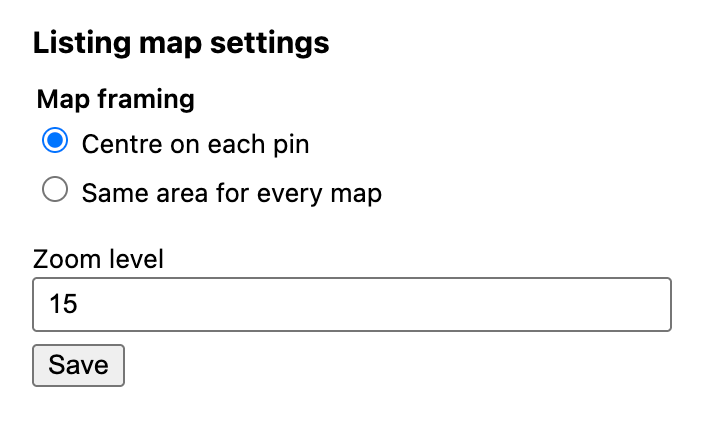
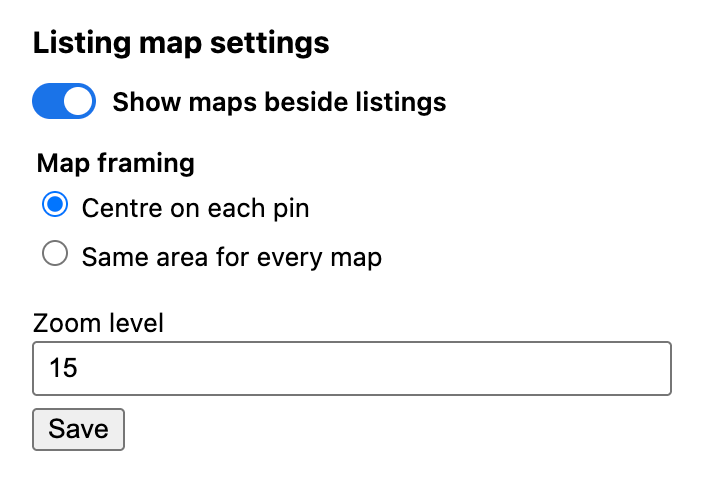
Add an on/off switch for the maps to the settings popup (#2)
The switch saves as soon as it's flipped, alongside the already-saved
framing settings, and open listing pages remove or restore their maps
straight away. Settings saved before this version have no switch and are
treated as on, so existing users keep their framing settings.

Also updates the README's Settings section and popup screenshot.

Changed region(s): [[0.0312, 0.5614, 0.9688, 0.9159], [0.0312, 0.1477, 0.6562, 0.5318], [0.0312, 0.0591, 0.4688, 0.1477]]

diff --git a/tests/settings.test.js b/tests/settings.test.js
@@ -4,6 +4,7 @@ const assert = require("node:assert/strict");
 const { loadSettingsPopup, waitForPageToSettle } = require("./load-extension-into-page");
 
 const EXPECTED_DEFAULT_SETTINGS = {
+  areMapsShowing: true,
   framingMode: "followPin",
   followPinZoomLevel: 15,
   fixedCentre: { latitude: -27.4698, longitude: 153.0251 }, // Brisbane CBD
@@ -11,6 +12,7 @@ const EXPECTED_DEFAULT_SETTINGS = {
 };
 
 const VALID_SAVED_SETTINGS = {
+  areMapsShowing: true,
   framingMode: "fixed",
   followPinZoomLevel: 14,
   fixedCentre: { latitude: -27.5, longitude: 153.1 },
@@ -23,7 +25,7 @@ async function loadSettingsAsTheExtensionWould(savedSettings) {
   return { loadedSettings: JSON.parse(JSON.stringify(loadedSettings)), popup };
 }
 
-test("a new user gets centre-on-pin at zoom 15, with Brisbane CBD at zoom 12 for a fixed centre", async () => {
+test("a new user gets maps switched on, centred on the pin at zoom 15, with Brisbane CBD at zoom 12 for a fixed centre", async () => {
   const { loadedSettings } = await loadSettingsAsTheExtensionWould({});
   assert.deepEqual(loadedSettings, EXPECTED_DEFAULT_SETTINGS);
 });
@@ -31,6 +33,12 @@ test("a new user gets centre-on-pin at zoom 15, with Brisbane CBD at zoom 12 for
 test("valid saved settings are kept", async () => {
   const { loadedSettings } = await loadSettingsAsTheExtensionWould(VALID_SAVED_SETTINGS);
   assert.deepEqual(loadedSettings, VALID_SAVED_SETTINGS);
+});
+
+test("settings saved before the on/off switch existed are kept, with maps switched on", async () => {
+  const { areMapsShowing, ...settingsSavedBeforeTheSwitchExisted } = VALID_SAVED_SETTINGS;
+  const { loadedSettings } = await loadSettingsAsTheExtensionWould(settingsSavedBeforeTheSwitchExisted);
+  assert.deepEqual(loadedSettings, { ...settingsSavedBeforeTheSwitchExisted, areMapsShowing: true });
 });
 
 test("saved settings that don't match the current schema are reset to the defaults", async () => {
@@ -43,6 +51,7 @@ test("saved settings that don't match the current schema are reset to the defaul
     "a missing setting": { framingMode: "fixed", followPinZoomLevel: 14 },
     "an out-of-range zoom level": { ...VALID_SAVED_SETTINGS, followPinZoomLevel: 99 },
     "an unknown framing mode": { ...VALID_SAVED_SETTINGS, framingMode: "boundary" },
+    "an on/off switch that isn't true or false": { ...VALID_SAVED_SETTINGS, areMapsShowing: "off" },
   };
   for (const [description, savedSettings] of Object.entries(savedSettingsThatMustBeReset)) {
     const { loadedSettings, popup } = await loadSettingsAsTheExtensionWould(savedSettings);
@@ -86,6 +95,7 @@ test("an invalid field in the hidden mode is reset to its default instead of blo
   });
 
   assert.deepEqual(popup.readSavedSettings(), {
+    areMapsShowing: true,
     framingMode: "followPin",
     followPinZoomLevel: 16,
     fixedCentre: EXPECTED_DEFAULT_SETTINGS.fixedCentre,
@@ -104,4 +114,33 @@ test("an invalid field the user can see blocks the save and explains why", async
 
   assert.match(statusMessage, /isn't a valid coordinate/);
   assert.deepEqual(popup.readSavedSettings(), VALID_SAVED_SETTINGS, "nothing should have been saved");
+});
+
+async function flipMapsShowingSwitch(popup) {
+  await waitForPageToSettle(); // let the popup fill itself from saved settings first
+  const mapsShowingSwitch = popup.document.getElementById("maps-showing-switch");
+  mapsShowingSwitch.click(); // flips it and fires "change", as a real click would
+  await waitForPageToSettle();
+  return popup.document.getElementById("save-status").textContent;
+}
+
+test("the on/off switch saves straight away, keeping the saved framing but not unsaved edits", async () => {
+  const popup = loadSettingsPopup({ savedSettings: VALID_SAVED_SETTINGS });
+  await waitForPageToSettle();
+  popup.document.getElementById("fixed-centre-zoom-level").value = "20"; // edited but not saved
+
+  const statusMessage = await flipMapsShowingSwitch(popup);
+
+  assert.match(statusMessage, /Maps turned off/);
+  assert.deepEqual(popup.readSavedSettings(), { ...VALID_SAVED_SETTINGS, areMapsShowing: false });
+});
+
+test("a new user who switches maps off stays switched off", async () => {
+  // Saving the switch on its own would leave storage failing the schema check, and the next
+  // load would reset it to the defaults, switching maps back on.
+  const popup = loadSettingsPopup();
+  await flipMapsShowingSwitch(popup);
+
+  const { loadedSettings } = await loadSettingsAsTheExtensionWould(popup.readSavedSettings());
+  assert.deepEqual(loadedSettings, { ...EXPECTED_DEFAULT_SETTINGS, areMapsShowing: false });
 });

diff --git a/settings-popup.js b/settings-popup.js
@@ -1,5 +1,8 @@
-// The popup opened from the extension's toolbar icon. Shows only the settings that apply to
-// the chosen framing mode, and saves them for the listing pages to use.
+// The popup opened from the extension's toolbar icon. Has a switch to turn maps on and off,
+// shows only the settings that apply to the chosen framing mode, and saves them for the
+// listing pages to use.
+
+const mapsShowingSwitch = document.getElementById("maps-showing-switch");
 
 const followPinSettingsSection = document.getElementById("follow-pin-settings");
 const fixedCentreSettingsSection = document.getElementById("fixed-centre-settings");
@@ -87,6 +90,7 @@ function parseZoomLevelText(zoomLevelText) {
 }
 
 function fillFormFromSettings(mapSettings) {
+  mapsShowingSwitch.checked = mapSettings.areMapsShowing;
   selectFramingMode(mapSettings.framingMode);
   followPinZoomLevelInput.value = mapSettings.followPinZoomLevel;
   fixedCentreInput.value = formatCoordinateForDisplay(mapSettings.fixedCentre);
@@ -119,20 +123,36 @@ function readSettingsFromForm() {
     followPinZoomLevel ??= DEFAULT_MAP_SETTINGS.followPinZoomLevel;
   }
 
-  return { mapSettings: { framingMode, followPinZoomLevel, fixedCentre, fixedCentreZoomLevel } };
+  const areMapsShowing = mapsShowingSwitch.checked;
+  return {
+    mapSettings: { areMapsShowing, framingMode, followPinZoomLevel, fixedCentre, fixedCentreZoomLevel },
+  };
+}
+
+function showSaveStatus(statusMessage, { isError = false } = {}) {
+  saveStatusMessage.classList.toggle("error", isError);
+  saveStatusMessage.textContent = statusMessage;
+}
+
+// The switch takes effect straight away, like most on/off switches, without pressing Save.
+// It saves alongside the already-saved framing settings, not any unsaved edits in the form.
+async function saveMapsShowingSwitch() {
+  const savedMapSettings = await loadMapSettings();
+  const areMapsShowing = mapsShowingSwitch.checked;
+  await saveMapSettings({ ...savedMapSettings, areMapsShowing });
+  showSaveStatus(`Maps turned ${areMapsShowing ? "on" : "off"}. Open listing pages update automatically.`);
 }
 
 async function saveSettingsFromForm() {
   const { mapSettings, errorMessage } = readSettingsFromForm();
-  saveStatusMessage.classList.toggle("error", Boolean(errorMessage));
   if (errorMessage) {
-    saveStatusMessage.textContent = errorMessage;
+    showSaveStatus(errorMessage, { isError: true });
     return;
   }
   await saveMapSettings(mapSettings);
   // Re-fill the form so a pasted degrees-minutes-seconds centre is shown in decimal form.
   fillFormFromSettings(mapSettings);
-  saveStatusMessage.textContent = "Saved. Open listing pages update automatically.";
+  showSaveStatus("Saved. Open listing pages update automatically.");
 }
 
 // The zoom limits live in map-settings.js; apply them to both zoom fields' spinners.
@@ -143,5 +163,6 @@ for (const zoomLevelInput of [followPinZoomLevelInput, fixedCentreZoomLevelInput
 document.querySelectorAll(FRAMING_MODE_RADIO_SELECTOR).forEach((framingModeRadio) => {
   framingModeRadio.addEventListener("change", showSettingsForSelectedFramingMode);
 });
+mapsShowingSwitch.addEventListener("change", saveMapsShowingSwitch);
 saveButton.addEventListener("click", saveSettingsFromForm);
 loadMapSettings().then(fillFormFromSettings);

diff --git a/map-settings.js b/map-settings.js
@@ -1,4 +1,5 @@
-// Map framing settings, shared by the settings popup and the listing page script.
+// Map settings (whether maps show at all, and how they're framed), shared by the settings
+// popup and the listing page script.
 // Saved in chrome.storage.sync so they persist and open listing pages can react to changes.
 
 const MAP_FRAMING_MODES = {
@@ -11,8 +12,10 @@ const MINIMUM_ZOOM_LEVEL = 1;
 const MAXIMUM_ZOOM_LEVEL = 21;
 
 // Used until the user saves their own settings. Its keys are also the settings schema:
-// saved settings with any other set of keys are discarded (see loadMapSettings).
+// saved settings with any other set of keys are discarded, except that a missing on/off switch
+// counts as on (see loadMapSettings).
 const DEFAULT_MAP_SETTINGS = {
+  areMapsShowing: true, // the popup's on/off switch
   framingMode: MAP_FRAMING_MODES.followPin,
   followPinZoomLevel: 15,
   fixedCentre: { latitude: -27.4698, longitude: 153.0251 }, // Brisbane CBD
@@ -46,6 +49,7 @@ function doSavedSettingsMatchSchema(savedSettings) {
   const hasExactlySchemaKeys = savedKeys.join(",") === schemaKeys.join(",");
   return (
     hasExactlySchemaKeys &&
+    typeof savedSettings.areMapsShowing === "boolean" &&
     Object.values(MAP_FRAMING_MODES).includes(savedSettings.framingMode) &&
     isValidZoomLevel(savedSettings.followPinZoomLevel) &&
     isValidGeographicPoint(savedSettings.fixedCentre) &&
@@ -56,9 +60,13 @@ function doSavedSettingsMatchSchema(savedSettings) {
 // Returns the saved settings, or the defaults if nothing has been saved yet. Saved settings
 // that don't match the schema are erased and replaced with the defaults.
 async function loadMapSettings() {
-  const savedSettings = await chrome.storage.sync.get(null); // null reads every saved key
-  const hasSavedSettings = Object.keys(savedSettings).length > 0;
+  const storedSettings = await chrome.storage.sync.get(null); // null reads every saved key
+  const hasSavedSettings = Object.keys(storedSettings).length > 0;
   if (!hasSavedSettings) return DEFAULT_MAP_SETTINGS;
+
+  // Settings saved before the on/off switch existed don't have it. Treat those as on, rather
+  // than failing the schema check and losing the user's framing settings.
+  const savedSettings = { areMapsShowing: DEFAULT_MAP_SETTINGS.areMapsShowing, ...storedSettings };
   if (doSavedSettingsMatchSchema(savedSettings)) return savedSettings;
 
   await chrome.storage.sync.clear();

diff --git a/add-listing-maps.js b/add-listing-maps.js
@@ -49,7 +49,7 @@ function removeMapFromListingCard(listingCard) {
 
 // Removes maps from elements that are no longer listing cards with a readable address, e.g.
 // a reused element the site has turned into an ad, or every card once the user leaves the
-// search results list.
+// search results list or switches maps off.
 function removeMapsExceptFrom(listingCardsThatKeepTheirMap) {
   for (const elementWithMap of document.querySelectorAll(`[${LISTING_CARD_HAS_MAP_ATTRIBUTE_NAME}]`)) {
     if (!listingCardsThatKeepTheirMap.has(elementWithMap)) {
@@ -77,8 +77,11 @@ function warnOnceIfNoAddressesCouldBeRead(listingCardCount, readableAddressCount
 function syncMapsWithListingsAndSettings() {
   if (!loadedMapSettingsOrNull) return; // settings not loaded yet
 
-  // Maps appear only in a search results list, never on other pages or in a site's map view.
-  if (!adapterForThisSite.isSearchResultsListShowing()) {
+  // Maps appear only when switched on in the settings, and only in a search results list:
+  // never on other pages or in a site's map view.
+  const shouldShowMapsOnThisPage =
+    loadedMapSettingsOrNull.areMapsShowing && adapterForThisSite.isSearchResultsListShowing();
+  if (!shouldShowMapsOnThisPage) {
     removeMapsExceptFrom(new Set());
     return;
   }

diff --git a/tests/listing-maps.test.js b/tests/listing-maps.test.js
@@ -178,3 +178,23 @@ test("maps appear only in search results, not on property pages or Domain's map 
   await waitForPageToSettle();
   assert.equal(searchPageWithOtherCards.document.querySelectorAll(".listing-map-embed").length, 0);
 });
+
+test("switching maps off removes them from open pages, and switching them on brings them back", async () => {
+  const page = loadListingPage({
+    pageUrl: REALESTATE_SEARCH_URL,
+    pageHtml: realestateResultsHtml(["21 Baker Street, Richmond"]),
+  });
+  await waitForPageToSettle();
+  const listingCard = page.document.querySelector("article");
+  const setMapsShowing = async (areMapsShowing) => {
+    // As the popup does: saves the switch alongside the other (here, default) settings.
+    await page.runInPage(`saveMapSettings({ ...DEFAULT_MAP_SETTINGS, areMapsShowing: ${areMapsShowing} })`);
+    await waitForPageToSettle();
+  };
+
+  await setMapsShowing(false);
+  assert.equal(listingMapIn(listingCard), null);
+
+  await setMapsShowing(true);
+  assert.equal(pinnedAddressOf(listingCard), "21 Baker Street, Richmond");
+});

diff --git a/settings-popup.css b/settings-popup.css
@@ -10,6 +10,53 @@ h1 {
   margin: 0 0 12px;
 }
 
+/* The on/off switch: a checkbox drawn as a sliding switch. */
+.maps-showing-label {
+  display: flex;
+  align-items: center;
+  gap: 8px;
+  margin-bottom: 14px;
+  font-weight: 600;
+}
+
+#maps-showing-switch {
+  appearance: none;
+  position: relative;
+  flex: none;
+  width: 32px;
+  height: 18px;
+  margin: 0;
+  border-radius: 9px;
+  background: #bbb;
+  cursor: pointer;
+  transition: background 0.15s;
+}
+
+#maps-showing-switch::before {
+  content: "";
+  position: absolute;
+  top: 2px;
+  left: 2px;
+  width: 14px;
+  height: 14px;
+  border-radius: 50%;
+  background: #fff;
+  transition: transform 0.15s;
+}
+
+#maps-showing-switch:checked {
+  background: #1a73e8;
+}
+
+#maps-showing-switch:checked::before {
+  transform: translateX(14px);
+}
+
+#maps-showing-switch:focus-visible {
+  outline: 2px solid #1a73e8;
+  outline-offset: 2px;
+}
+
 fieldset {
   border: 0;
   padding: 0;

diff --git a/settings-popup.html b/settings-popup.html
@@ -7,6 +7,11 @@
   <body>
     <h1>Listing map settings</h1>
 
+    <label class="maps-showing-label">
+      <input id="maps-showing-switch" type="checkbox" role="switch" />
+      Show maps beside listings
+    </label>
+
     <fieldset>
       <legend>Map framing</legend>
       <label><input type="radio" name="framingMode" value="followPin" /> Centre on each pin</label>

diff --git a/README.md b/README.md
@@ -35,9 +35,15 @@ a pin on the property's address.
 
 ### Settings
 
-Click the **Listing Maps** icon in Chrome's toolbar to choose how the maps are framed:
+Click the **Listing Maps** icon in Chrome's toolbar to turn the maps on and off, or to choose
+how they're framed.
 
 <img src="images/settings_menu.png" alt="The Listing Maps settings popup" width="352">
+
+Use the **Show maps beside listings** switch to turn the maps on and off. It takes effect
+straight away, with no need to click Save.
+
+To choose how the maps are framed:
 
 - **Centre on each pin** (the default): each map is centred on its property. Set how far it's
   zoomed in (1 shows the whole world, 21 shows individual buildings; the default is 15).
